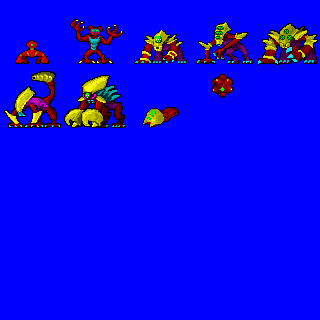
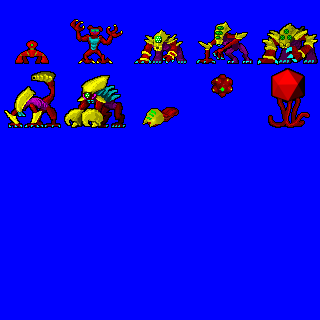
Added PZHolo terrain and waypoint

Changed region(s): [[0.8438, 0.1875, 0.9688, 0.4062]]

diff --git a/game/content/ghplots/dd_roadedge_unique.py b/game/content/ghplots/dd_roadedge_unique.py
@@ -12,6 +12,8 @@ from pbge.plots import Plot, PlotState
 from . import dd_customobjectives
 from .dd_homebase import CD_BIOTECH_DISCOVERIES, BiotechDiscovery
 from .dd_roadedge import DZDREBasicPlotWithEncounterStuff, DeadZoneHighwaySceneGen
+from game import memobrowser
+from game.memobrowser import Memo
 
 
 #   *********************************
@@ -35,6 +37,12 @@ class KerberosEncounterPlot(DZDREBasicPlotWithEncounterStuff):
         self.add_sub_plot(nart, "DZRE_KERBEROS_ATTACKS", ident="MISSION", spstate=PlotState(
             elements={"METRO": myedge.start_node.destination.metrodat, "METROSCENE": myedge.start_node.destination,
                       "MISSION_GATE": myedge.start_node.entrance}).based_on(self))
+        self._got_rumor = False
+        mysp = self.add_sub_plot(
+            nart,"ADD_EXPERT",elements={"METRO": myedge.start_node.destination.metrodat, "METROSCENE": myedge.start_node.destination}
+        )
+        self.elements["NPC"] = mysp.elements["NPC"]
+        self.elements["EXPERT_LOC"] = mysp.elements["LOCALE"]
         return True
 
     def get_enemy_encounter(self, camp, dest_node):
@@ -75,9 +83,41 @@ class KerberosEncounterPlot(DZDREBasicPlotWithEncounterStuff):
         myscene = camp.scene.get_root_scene()
         if self.elements["DZ_EDGE"].connects_to_city(myscene) and not self.road_cleared:
             # This city is on this road.
-            mygram["[News]"] = ["the road to {} is known as the mecha graveyard".format(
+            mygram["[News]"] = ["kerberos deathworms have been sighted on the road to {}".format(
                 self.elements["DZ_EDGE"].get_city_link(myscene)), ]
         return mygram
+
+    def _get_generic_offers(self, npc, camp):
+        """Get any offers that could apply to non-element NPCs."""
+        goffs = list()
+        myscene = camp.scene.get_root_scene()
+        myedge = self.elements["DZ_EDGE"]
+        if npc is not self.elements["NPC"]:
+            if myedge.start_node.destination is myscene and not self.road_cleared and not self._got_rumor:
+                goffs.append(Offer(
+                    msg="The Kerberos has lived here forever. No-one knows if it is one monster with many heads or many monsters acting together, but we do know it cannot be killed. You ought to ask {NPC} for more info. {NPC.gender.subject_pronoun} knows more about it than anyone else alive.".format(**self.elements),
+                    context=ContextTag((context.INFO,)), effect=self._get_rumor,
+                    subject="kerberos", data={"subject": "the kerberos deathworm"}, no_repeats=True
+                ))
+            elif myedge.end_node.destination is myscene and not self.road_cleared and not self._got_rumor:
+                goffs.append(Offer(
+                    msg="They're big, they're dangerous, and they can swallow a mecha whole. You should ask someone from {} if you want to know more... Usually the deathworms don't come out this far.".format(myedge.start_node.destination),
+                    context=ContextTag((context.INFO,)),
+                    subject="kerberos", data={"subject": "the kerberos deathworm"}, no_repeats=True
+                ))
+        return goffs
+
+    def _get_rumor(self, camp):
+        self._got_rumor = True
+        self.memo = Memo("{NPC} at {EXPERT_LOC} knows more about the Kerberos Deathworm than anyone else.".format(**self.elements),
+                         self.elements["EXPERT_LOC"])
+
+    def NPC_offers(self, camp):
+        mylist = list()
+
+
+
+        return mylist
 
 
 class KerberosAttacks(Plot):
@@ -119,8 +159,26 @@ class KerberosAttacks(Plot):
         self.register_element("KIDNAP_TEAM", game.teams.Team(), dident="KIDNAP_ROOM")
         self.kidnapped_pilots = list()
 
+        d_kidnap_room.contents.append(ghwaypoints.PZHolo())
+
         nart.camp.campdata["KERBEROS_GRAB_FUN"] = self._get_grabbed_by_kerberos
         nart.camp.campdata["KERBEROS_DUNGEON_OPEN"] = False
+
+        # Add the lore bits. In this case, biomachines that might reveal Kerberos's purpose.
+        lore_room = pbge.randmaps.rooms.OpenRoom(5,5,parent=random.choice(mydungeon.levels))
+        #lore_room = pbge.randmaps.rooms.OpenRoom(10, 10, parent=mydungeon.entry_level)
+        biomachine = self.register_element(
+            "BIOMACHINE", ghwaypoints.OrganicTube(
+                name="Bioprocessor", plot_locked=True,
+                desc="A biomechanical tube extends from the ceiling of this chamber to the floor."
+            )
+        )
+        lore_room.contents.append(biomachine)
+
+        # Add the boss room.
+        d_boss_level = self.register_element("BOSS_LEVEL", mydungeon.goal_level)
+        d_boss_room = self.register_element("BOSS_ROOM", pbge.randmaps.rooms.OpenRoom(10,10), dident="BOSS_LEVEL")
+        self.add_sub_plot(nart, "DZRE_KERBEROS_BOSSFIGHT", ident="BOSSFIGHT")
 
         self.intro_ready = True
 
@@ -141,6 +199,15 @@ class KerberosAttacks(Plot):
         if camp.campdata["KERBEROS_DUNGEON_OPEN"]:
             thingmenu.add_item("Go to the Kerberos Facility.", self.go_to_locale)
 
+    def BIOMACHINE_menu(self, camp: gears.GearHeadCampaign, thingmenu):
+        if camp.party_has_skill(gears.stats.Biotechnology) or camp.party_has_skill(gears.stats.Science):
+            thingmenu.desc = "{} It seems to be a detoxification processor; perhaps Kerberos has been removing contaminants from the soil it consumes.".format(thingmenu.desc)
+        else:
+            thingmenu.desc = "{} It seems to be digesting something.".format(thingmenu.desc)
+
+    def BOSSFIGHT_WIN(self, camp: gears.GearHeadCampaign):
+        camp.check_trigger("WIN", self)
+
     def go_to_locale(self, camp):
         camp.destination, camp.entrance = self.elements["DUNGEON_ENTRANCE"], self.elements["ENTRANCE"]
 
@@ -148,3 +215,43 @@ class KerberosAttacks(Plot):
         if self.intro_ready and camp.scene is self.elements["DUNGEON_ENTRANCE"]:
             pbge.alert("You are dropped into a deep underground chamber. You're not sure whether this is inside Kerberos or some adjoining complex.")
             self.intro_ready = False
+
+
+class KerberosBossFight(Plot):
+    LABEL = "DZRE_KERBEROS_BOSSFIGHT"
+    active = True
+    scope = "BOSS_LEVEL"
+    UNIQUE = True
+
+    def custom_init(self, nart):
+        myscene = self.elements["BOSS_LEVEL"]
+        myteam = self.register_element("_eteam", teams.Team(enemies=(myscene.player_team,)), dident="BOSS_ROOM")
+        mycompy = self.register_element("_core", gears.selector.get_design_by_full_name("K1 Bio-Computer"), dident="_eteam")
+        serv1 = self.register_element("_serv1", gears.selector.get_design_by_full_name("Servitor"), dident="_eteam")
+        serv2 = self.register_element("_serv2", gears.selector.get_design_by_full_name("Servitor"), dident="_eteam")
+        serv1.colors = (gears.color.Twilight,gears.color.Black,gears.color.Black,gears.color.Black,gears.color.Black)
+        serv2.colors = (gears.color.Saffron,gears.color.Black,gears.color.Black,gears.color.Black,gears.color.Black)
+
+        return True
+
+    def t_COMBATROUND(self, camp: gears.GearHeadCampaign):
+        mycompy: gears.base.Prop = self.elements["_core"]
+        serv1: gears.base.Monster = self.elements["_serv1"]
+        serv2: gears.base.Monster = self.elements["_serv2"]
+
+        if mycompy.is_destroyed() and not (serv1.is_destroyed() and serv2.is_destroyed()):
+            # If you destroy the compy before the servitors, it gets repaired.
+            mycompy.restore_all()
+            pbge.my_state.view.play_anims(gears.geffects.BiotechnologyAnim(pos=mycompy.pos))
+
+    def t_ENDCOMBAT(self, camp: gears.GearHeadCampaign):
+        mycompy: gears.base.Prop = self.elements["_core"]
+        serv1: gears.base.Monster = self.elements["_serv1"]
+        serv2: gears.base.Monster = self.elements["_serv2"]
+
+        if mycompy.is_destroyed() and serv1.is_destroyed() and serv2.is_destroyed():
+            pbge.alert("As the biocomputer dies, the chamber is shaken by a powerful rumble. The tremors last for a short time before fading into silence. Whatever just happened, you assume that Kerberos will no longer trouble travelers on the highway.")
+            camp.check_trigger("WIN", self)
+            self.end_plot(camp)
+
+

diff --git a/pbge/image.py b/pbge/image.py
@@ -30,12 +30,11 @@ def glob_images(pattern):
 
 class Image(object):
     def __init__(self, fname=None, frame_width=0, frame_height=0, color=None, custom_frames=None,
-                 flags=pygame.RLEACCEL):
+                 flags=pygame.RLEACCEL, transparent=False):
         """Load image file, or create blank image, at frame size"""
         if fname:
-            if (fname, repr(color)) in pre_loaded_images:
-                self.bitmap = pre_loaded_images[(fname, repr(color))]
-            else:
+            self.bitmap = self.get_pre_loaded(fname, color, transparent)
+            if not self.bitmap:
                 if not os.path.exists(fname):
                     for p in search_path:
                         if os.path.exists(os.path.join(p, fname)):
@@ -45,13 +44,19 @@ class Image(object):
                 self.bitmap.set_colorkey((0, 0, 255), flags)
                 if color:
                     self.recolor(color)
-                self.record_pre_loaded(fname, color, self.bitmap)
+                    self.record_pre_loaded(fname, color, self.bitmap, transparent)
         else:
             self.bitmap = pygame.Surface((frame_width, frame_height))
             self.bitmap.fill((0, 0, 255))
             self.bitmap.set_colorkey((0, 0, 255), flags)
 
         self.fname = fname
+        self.transparent = transparent
+        if transparent:
+            alpha = int(transparent)
+            if alpha <= 1:
+                alpha = 155
+            self.bitmap.set_alpha(alpha)
 
         if frame_width == 0:
             frame_width = self.bitmap.get_width()
@@ -67,8 +72,12 @@ class Image(object):
         self.custom_frames = custom_frames
 
     @staticmethod
-    def record_pre_loaded(ident, colorset, bitmap):
-        pre_loaded_images[(ident, repr(colorset))] = bitmap
+    def get_pre_loaded(ident, colorset, transparent):
+        return pre_loaded_images.get((ident,repr(colorset),transparent))
+
+    @staticmethod
+    def record_pre_loaded(ident, colorset, bitmap, transparent=False):
+        pre_loaded_images[(ident, repr(colorset), transparent)] = bitmap
 
     def render(self, dest=(0, 0), frame=0, dest_surface=None ):
         # Render this Image onto the provided surface.

diff --git a/game/content/ghplots/peopleplots.py b/game/content/ghplots/peopleplots.py
@@ -1,0 +1,43 @@
+from pbge.plots import Plot, PlotState
+import game.content.ghwaypoints
+import game.content.ghterrain
+import gears
+import pbge
+from game import teams,ghdialogue
+from game.content import gharchitecture
+from game.ghdialogue import context
+import random
+from pbge.dialogue import ContextTag,Offer
+from game.content.ghplots import dd_main
+import game.content.plotutility
+import game.content.gharchitecture
+from . import missionbuilder
+import collections
+
+from game import memobrowser
+
+
+#  **********************
+#  ***   ADD_EXPERT   ***
+#  **********************
+# Add an elder or a professor or some other trove of local knowledge, presumably to give some local knowledge.
+
+class RandomExpertNPC(Plot):
+    LABEL = "ADD_EXPERT"
+    JOB_NAMES = ("Scavenger", "Teacher", "Aristo", "Citizen", "Tekno", "Doctor", "Researcher")
+
+    def custom_init(self, nart):
+        npc = gears.selector.random_character(
+            job = gears.jobs.ALL_JOBS[random.choice(self.JOB_NAMES)],
+            age=random.randint(50,90),
+            local_tags=tuple(self.elements["METROSCENE"].attributes)
+        )
+        self.seek_element(nart, "LOCALE", self._is_best_scene, scope=self.elements["METROSCENE"], backup_seek_func=self._is_good_scene)
+        self.register_element("NPC", npc, dident="LOCALE")
+        return True
+
+    def _is_best_scene(self,nart,candidate):
+        return isinstance(candidate,pbge.scenes.Scene) and gears.tags.SCENE_PUBLIC in candidate.attributes and gears.tags.SCENE_CULTURE in candidate.attributes
+
+    def _is_good_scene(self,nart,candidate):
+        return isinstance(candidate,pbge.scenes.Scene) and gears.tags.SCENE_PUBLIC in candidate.attributes

diff --git a/gears/selector.py b/gears/selector.py
@@ -196,19 +196,23 @@ def get_random_loot(rank, amount, allowed_tags):
             break
     return myloot
 
-def random_character(rank=25, needed_tags=(), local_tags=(), current_year=158, can_cyberize=None, **kwargs):
+def random_character(rank=25, needed_tags=(), local_tags=(), current_year=158, can_cyberize=None, camp=None, age=None, **kwargs):
     # Build the creation matrix, aka the dict.
     possible_origins = [o for o in local_tags if o in personality.ORIGINS]
     if "faction" in kwargs and "job" not in kwargs:
         job = kwargs["faction"].choose_job(random.choice((tags.Commander,tags.Support,tags.Support,tags.Trooper,tags.Trooper,tags.Trooper)))
     else:
         job = kwargs.get("job",None) or jobs.choose_random_job(needed_tags, local_tags)
+    if camp:
+        current_year = camp.year
+    if not age:
+        age = random_age()
     meanstatpts = max(rank // 5 + 90, 90)
     combatant = random.choice([True, False, False, False, False, False]) or job.always_combatant
     creation_matrix = dict(statline=base.Being.random_stats(points=random.randint(meanstatpts - 5, meanstatpts + 5)),
                            portrait_gen=portraits.Portrait(), job=job, combatant=combatant,
                            personality=random_personality(possible_origins), gender=genderobj.Gender.random_gender(),
-                           birth_year=current_year - random_age(), renown=rank)
+                           birth_year=current_year - age, renown=rank)
     if kwargs:
         creation_matrix.update(kwargs)
     pc = base.Character(**creation_matrix

diff --git a/game/content/ghterrain.py b/game/content/ghterrain.py
@@ -187,6 +187,11 @@ class OrganicWall(pbge.scenes.terrain.WallTerrain):
 class OrganicFloor(pbge.scenes.terrain.VariableTerrain):
     image_bottom = 'terrain_floor_organic.png'
 
+class OrganicTubeTerrain(pbge.scenes.terrain.Terrain):
+    image_top = 'prop_biotech.png'
+    frame = 1
+    blocks = (Walking,Skimming,Rolling,Vision,Flying)
+
 
 class DZDTownTerrain(pbge.scenes.terrain.Terrain):
     image_top = 'terrain_dzd_worldprops.png'
@@ -734,3 +739,20 @@ class BrokenBiotankTerrain(pbge.scenes.terrain.Terrain):
     frame = 7
     image_top = 'terrain_decor_biotank.png'
     blocks = (Walking,Skimming,Rolling,Flying)
+
+class PZHoloTerrain(pbge.scenes.terrain.AnimTerrain):
+    transparent = True
+    frames = (1,2,3,4,5,6,7,6,5,4,3,2,3,4,5,6,7,6,5,4,3,2,1,2,3,4,5,6,7,6,5,4,3,2,3,5,1,4,7,2,6,7,6,5,4,3,2,
+              1,2,3,4,5,6,7,6,5,4,3,2,1,2,3,4,5,6,7,6,5,4,3,2,1,2,3,4,5,4,3,4,5,6,5,4,3,2)
+    image_top = "terrain_decor_pzholo.png"
+    blocks = (Walking,Skimming,Rolling,Flying)
+    anim_delay = 3
+    @classmethod
+    def render_top( self, dest, view, x, y ):
+        """Draw terrain that should appear in front of a model in the same tile"""
+        spr = view.get_terrain_sprite( self.image_top, (x,y), transparent=False)
+        spr.render(dest, 0)
+        spr = view.get_terrain_sprite( self.image_top, (x,y), transparent=True)
+        spr.render( dest, self.frames[(view.phase // self.anim_delay + ( x + y ) * 4 ) % len(self.frames)] )
+
+

diff --git a/gears/base.py b/gears/base.py
@@ -425,7 +425,7 @@ class Combatant(KeyObject):
 class HasPower(KeyObject):
     # This is a gear that has, and can use, power sources.
     def get_current_and_max_power(self):
-        sources = [p for p in self.descendants() if (hasattr(p, "max_power") and p.is_operational())]
+        sources = [p for p in self.get_all_parts() if (hasattr(p, "max_power") and p.is_operational())]
         current_power = 0
         max_power = 0
         for p in sources:
@@ -434,7 +434,7 @@ class HasPower(KeyObject):
         return current_power, max_power
 
     def consume_power(self, amount):
-        sources = [p for p in self.descendants() if (hasattr(p, "spend_power") and p.is_operational())]
+        sources = [p for p in self.get_all_parts() if (hasattr(p, "spend_power") and p.is_operational())]
         random.shuffle(sources)
         while (amount > 0) and sources:
             ps = sources.pop()

diff --git a/pbge/scenes/viewer.py b/pbge/scenes/viewer.py
@@ -59,15 +59,10 @@ class SceneView( object ):
 
     def get_named_sprite( self, fname, transparent=False ):
         """Return the requested sprite. If no sprite exists, try to load one."""
-        spr = self.namedsprite.get( fname )
+        spr = self.namedsprite.get( (fname,transparent) )
         if not spr:
-            spr = image.Image(fname,self.TILE_WIDTH,self.TILE_WIDTH)
-            if transparent:
-                alpha = int(transparent)
-                if alpha <= 1:
-                    alpha = 155
-                spr.bitmap.set_alpha(alpha)
-            self.namedsprite[fname] = spr
+            spr = image.Image(fname,self.TILE_WIDTH,self.TILE_WIDTH, transparent=transparent)
+            self.namedsprite[(fname,transparent)] = spr
         return spr
 
     def get_terrain_sprite(self,fname,pos,transparent=False):

diff --git a/game/content/ghplots/__init__.py b/game/content/ghplots/__init__.py
@@ -22,6 +22,7 @@ from . import mission_conversations
 from . import mission_stubs
 from . import mission_teamups
 from . import mocha
+from . import peopleplots
 from . import recovery
 from . import setpiece
 from . import tarot_cards
@@ -67,6 +68,7 @@ harvest(mission_conversations)
 harvest(mission_stubs)
 harvest(mission_teamups)
 harvest(mocha)
+harvest(peopleplots)
 harvest(recovery)
 harvest(setpiece)
 harvest(tarot_cards)

diff --git a/gears/portraits.py b/gears/portraits.py
@@ -178,7 +178,7 @@ class Portrait(object):
                 self.generate_random_colors(pc)
 
             porimage.recolor(pc.colors)
-            pbge.image.Image.record_pre_loaded(self,pc.colors,porimage.bitmap)
+            pbge.image.Image.record_pre_loaded(self,pc.colors,porimage.bitmap, transparent=False)
 
             # Create the mini-portrait.
             myrect = pygame.Rect(100,200,200,200)

diff --git a/game/content/ghwaypoints.py b/game/content/ghwaypoints.py
@@ -386,3 +386,10 @@ class EmptyBiotank(Biotank):
 
 class BrokenBiotank(Biotank):
     TILE = pbge.scenes.Tile(None, None, ghterrain.BrokenBiotankTerrain)
+
+class OrganicTube(Waypoint):
+    TILE = pbge.scenes.Tile(None, None, ghterrain.OrganicTubeTerrain)
+
+class PZHolo(Waypoint):
+    # A PreZero hologram interface
+    TILE = pbge.scenes.Tile(None, None, ghterrain.PZHoloTerrain)

diff --git a/game/content/ghplots/dd_main.py b/game/content/ghplots/dd_main.py
@@ -201,7 +201,7 @@ class RoadMap(object):
             else:
                 edg.style = RoadEdge.STYLE_YELLOW
                 edg.sub_plot_label = "DZD_ROADEDGE_YELLOW"
-        #my_edge.sub_plot_label = "DZD_ROADEDGE_KERBEROS"
+        my_edge.sub_plot_label = "DZD_ROADEDGE_KERBEROS"
 
 
     def add_node(self,node_to_add,x,y):
